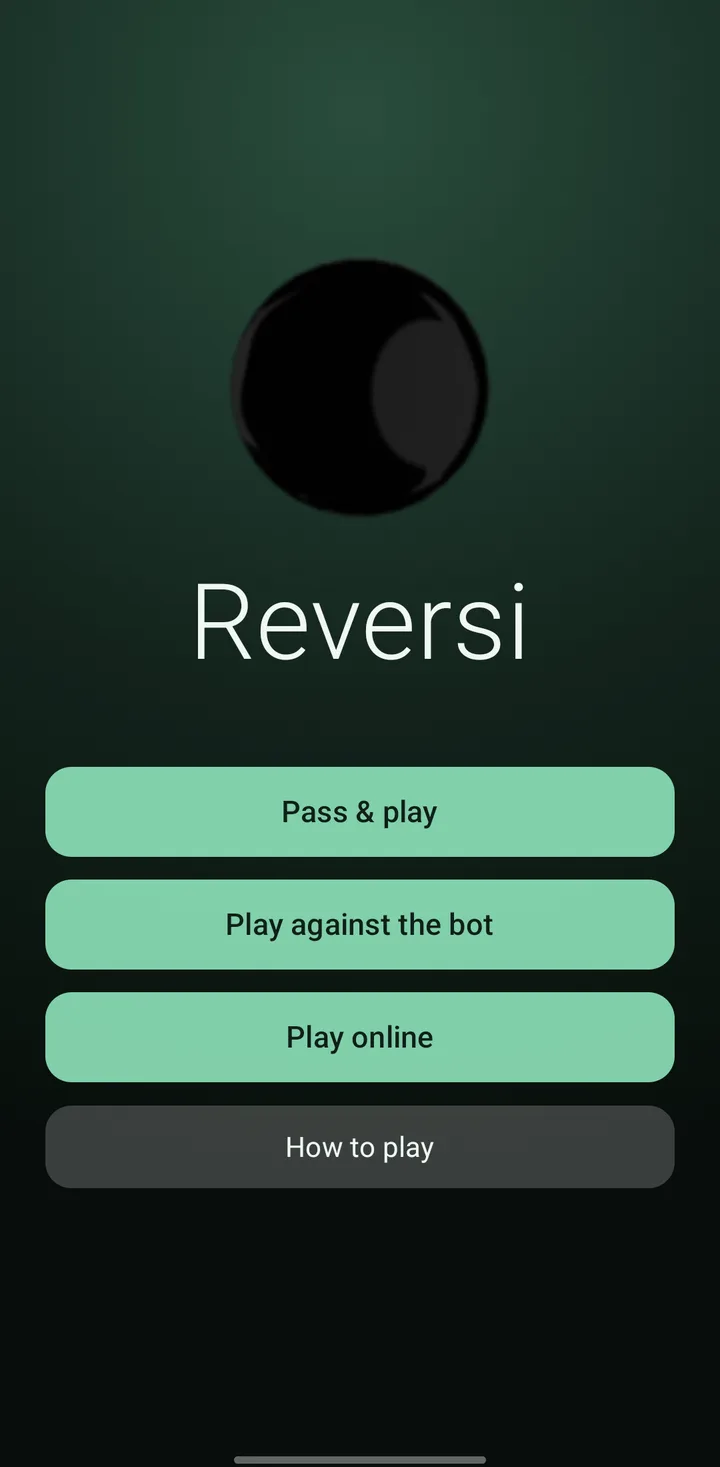
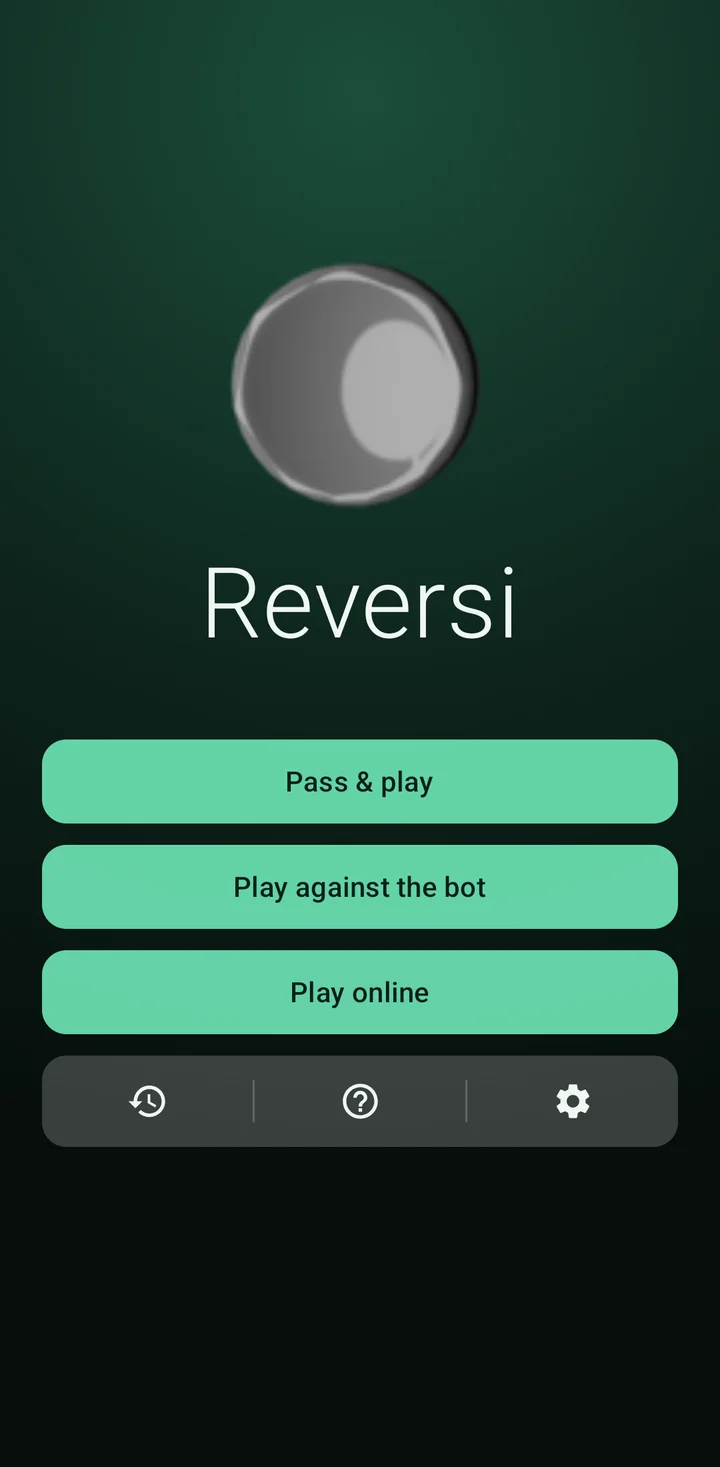
Update the download page for 1.7
Feature game history and replays with a new section and screenshots,
mention online names, refresh the home and online screenshots for the
icon bar and name field, and bring the fallback version, size and
SHA-256 (shown if the GitHub API can't be reached) up to 1.7.

diff --git a/docs/index.html b/docs/index.html
@@ -40,9 +40,9 @@
           <a class="btn btn-ghost" href="#install">How to install</a>
         </div>
         <p class="meta load-in">
-          <span data-version>Version 1.1</span>
+          <span data-version>Version 1.7</span>
           <span class="dot" aria-hidden="true"></span>
-          <span data-size>24.1 MB</span>
+          <span data-size>24.3 MB</span>
           <span class="dot" aria-hidden="true"></span>
           <span>Android 7.0+</span>
         </p>
@@ -71,11 +71,25 @@
       </article>
 
       <article class="feature reveal">
-        <div class="feature-shot"><div class="phone"><img class="screen" src="assets/screen-online.webp" alt="Play online: create a room as Black, White or Random, or join one with a room code" width="720" height="1467" loading="lazy"></div></div>
+        <div class="feature-shot"><div class="phone"><img class="screen" src="assets/screen-replay.webp" alt="Replaying a finished game against Alex, won 49 to 15, at move 26 of 61, with controls to step back, play and step forward" width="720" height="1467" loading="lazy"></div></div>
+        <div class="feature-copy">
+          <p class="eyebrow">History</p>
+          <h2>Every game, kept.</h2>
+          <p>History lists your games against the bots and online: who played which colour, the result and when. Filter by result, opponent or colour, and see where you used a hint or took a move back.</p>
+          <div class="callout">
+            <p class="callout-label">New · Replays</p>
+            <h3>Watch a finished game again.</h3>
+            <p>Tap a finished game to step through it move by move with the same flips as the real thing, or let it play itself.</p>
+          </div>
+        </div>
+      </article>
+
+      <article class="feature reveal">
+        <div class="feature-shot"><div class="phone"><img class="screen" src="assets/screen-online.webp" alt="Play online: set your name, create a room as Black, White or Random, or join one with a room code" width="720" height="1467" loading="lazy"></div></div>
         <div class="feature-copy">
           <p class="eyebrow">Online</p>
           <h2>Share a code, start a game.</h2>
-          <p>Create a room and send the code to a friend. They type it in and you're playing, wherever they are. No account to set up.</p>
+          <p>Pick a name, create a room and send the code to a friend. They type it in and you're playing, wherever they are, each with your name on the board. No account to set up.</p>
         </div>
       </article>
 
@@ -108,10 +122,12 @@
         </div>
       </div>
       <div class="gallery" tabindex="0" aria-label="Screenshots, scroll sideways">
-        <figure><div class="phone"><img class="screen" src="assets/screen-home.webp" alt="Home screen with Pass &amp; play, Play against the bot, Play online and How to play" width="720" height="1467" loading="lazy"></div><figcaption>Home</figcaption></figure>
+        <figure><div class="phone"><img class="screen" src="assets/screen-home.webp" alt="Home screen with Pass &amp; play, Play against the bot and Play online, and a bar for History, How to play and Settings" width="720" height="1467" loading="lazy"></div><figcaption>Home</figcaption></figure>
         <figure><div class="phone"><img class="screen" src="assets/screen-game.webp" alt="A game in progress" width="720" height="1467" loading="lazy"></div><figcaption>In play</figcaption></figure>
         <figure><div class="phone"><img class="screen" src="assets/screen-bot.webp" alt="Choosing a bot, with Shadow selected" width="720" height="1467" loading="lazy"></div><figcaption>Pick a bot</figcaption></figure>
         <figure><div class="phone"><img class="screen" src="assets/screen-online.webp" alt="Online rooms" width="720" height="1467" loading="lazy"></div><figcaption>Online rooms</figcaption></figure>
+        <figure><div class="phone"><img class="screen" src="assets/screen-history.webp" alt="Game history: games against bots and online opponents with their results" width="720" height="1467" loading="lazy"></div><figcaption>History</figcaption></figure>
+        <figure><div class="phone"><img class="screen" src="assets/screen-replay.webp" alt="Replaying a finished game" width="720" height="1467" loading="lazy"></div><figcaption>Replay</figcaption></figure>
         <figure><div class="phone"><img class="screen" src="assets/screen-learn.webp" alt="How to play walkthrough" width="720" height="1467" loading="lazy"></div><figcaption>How to play</figcaption></figure>
         <figure><div class="phone"><img class="screen" src="assets/screen-end.webp" alt="End of a game" width="720" height="1467" loading="lazy"></div><figcaption>Game over</figcaption></figure>
       </div>
@@ -141,7 +157,7 @@
       <div class="checksum">
         <div>
           <p class="checksum-label">SHA-256 of the APK</p>
-          <code data-sha>2efedd608080c2d8ffa6de21309fac64754d09c96e91bb9011927b34a7364aec</code>
+          <code data-sha>c48d602dc9766237b3c874eaa73008fe75a7de4dd6afb46af2d290bc06dfea9c</code>
         </div>
         <button class="btn btn-ghost btn-small" type="button" data-copy>Copy</button>
       </div>
